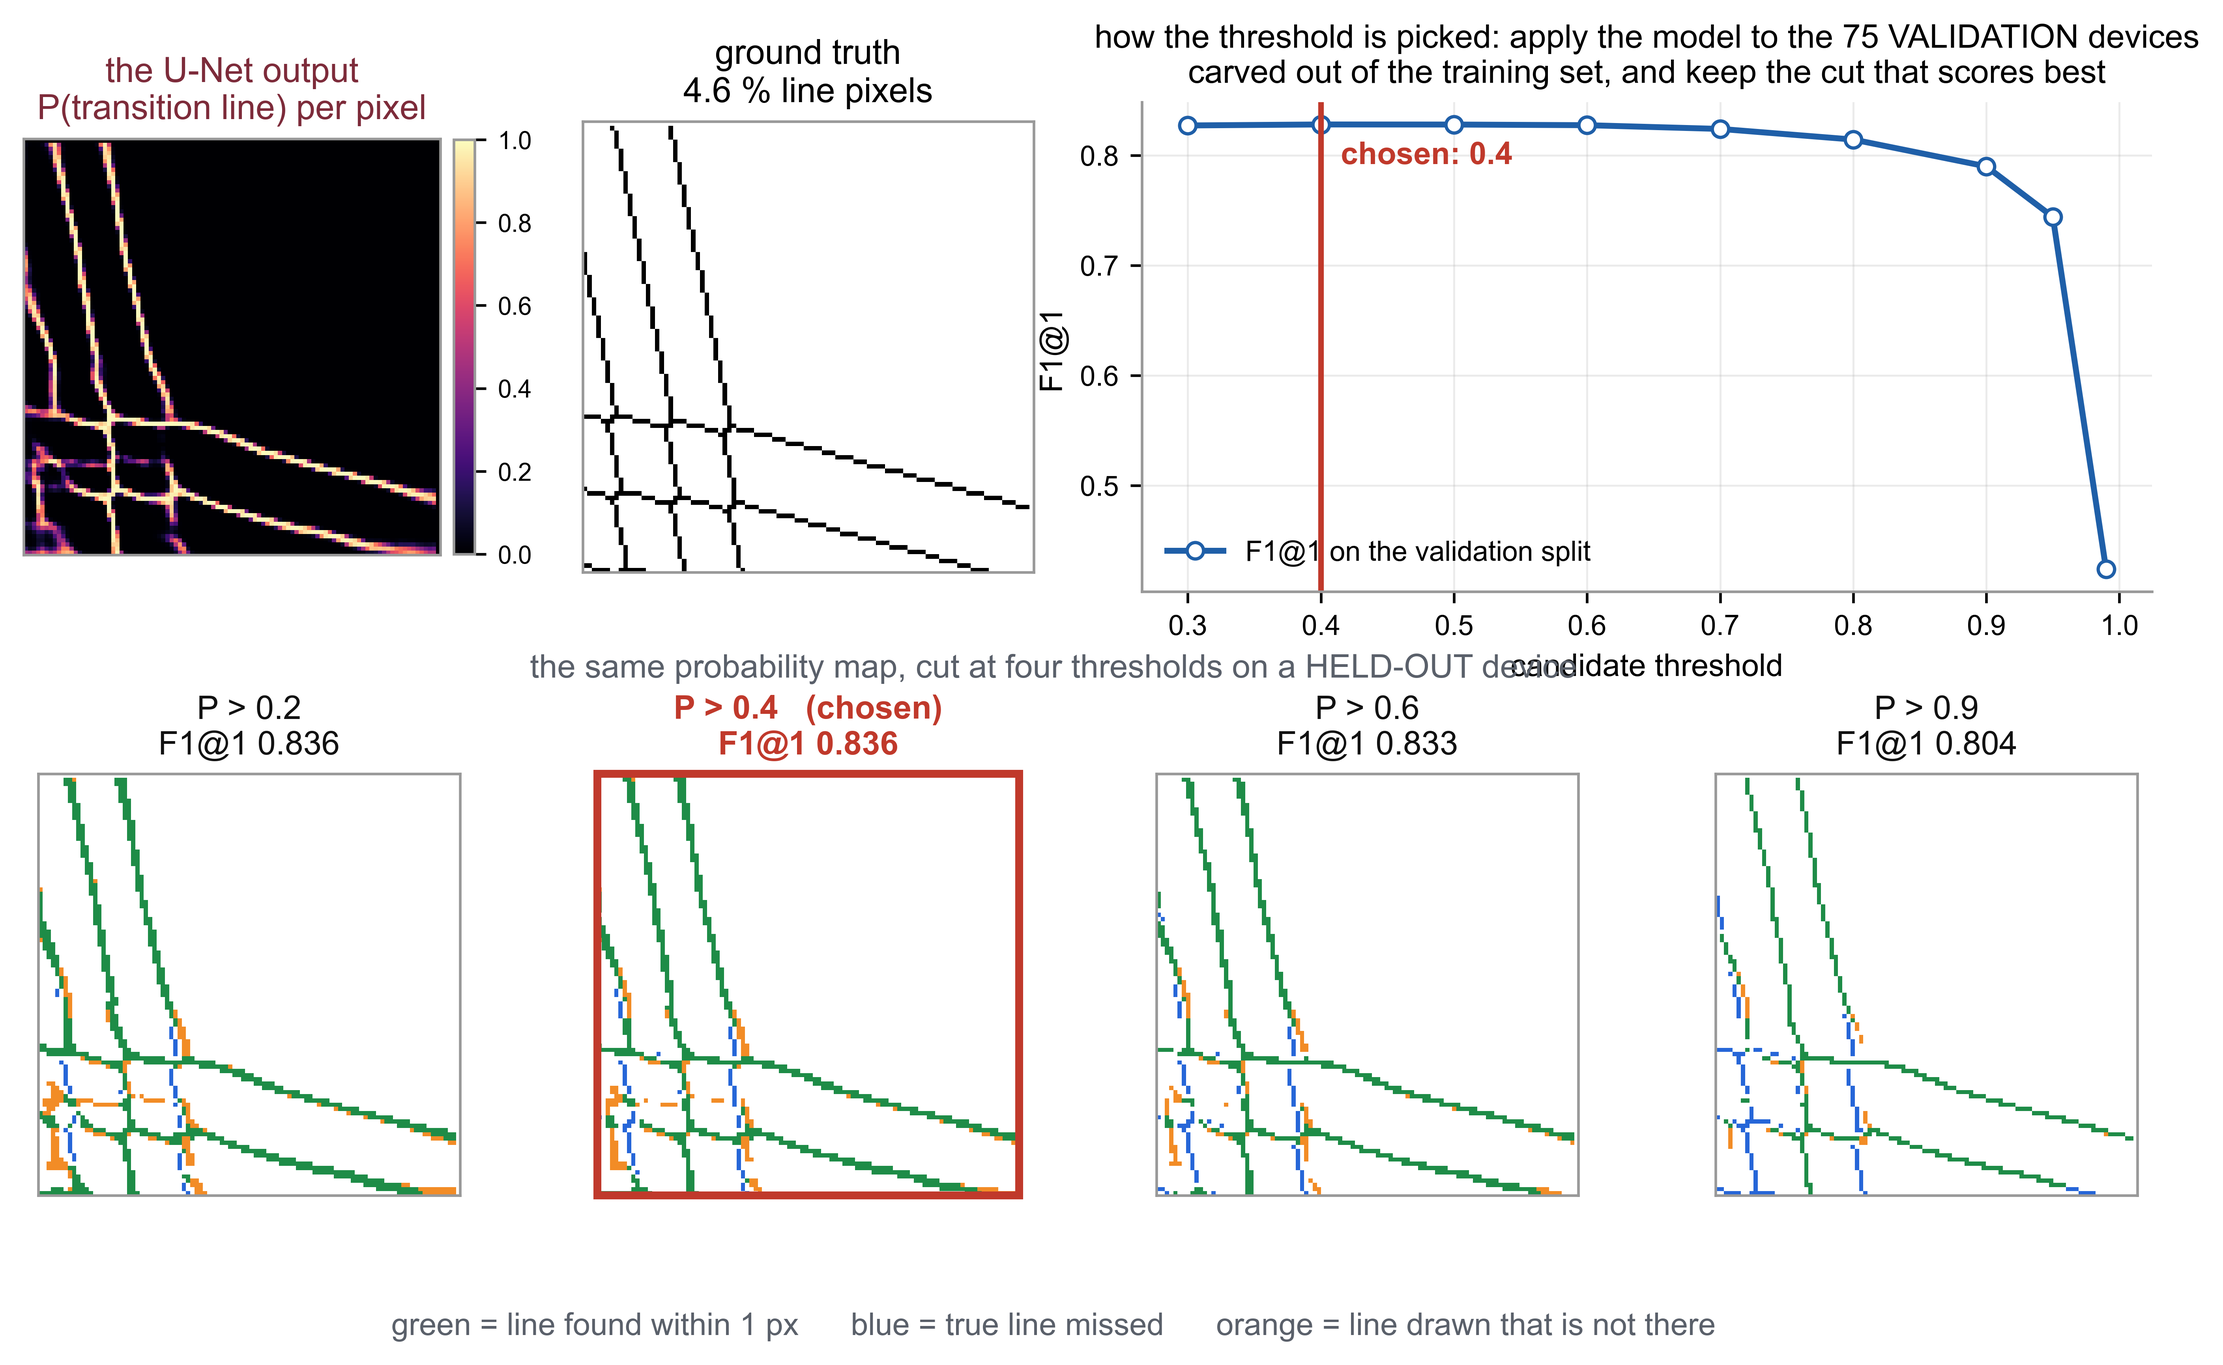
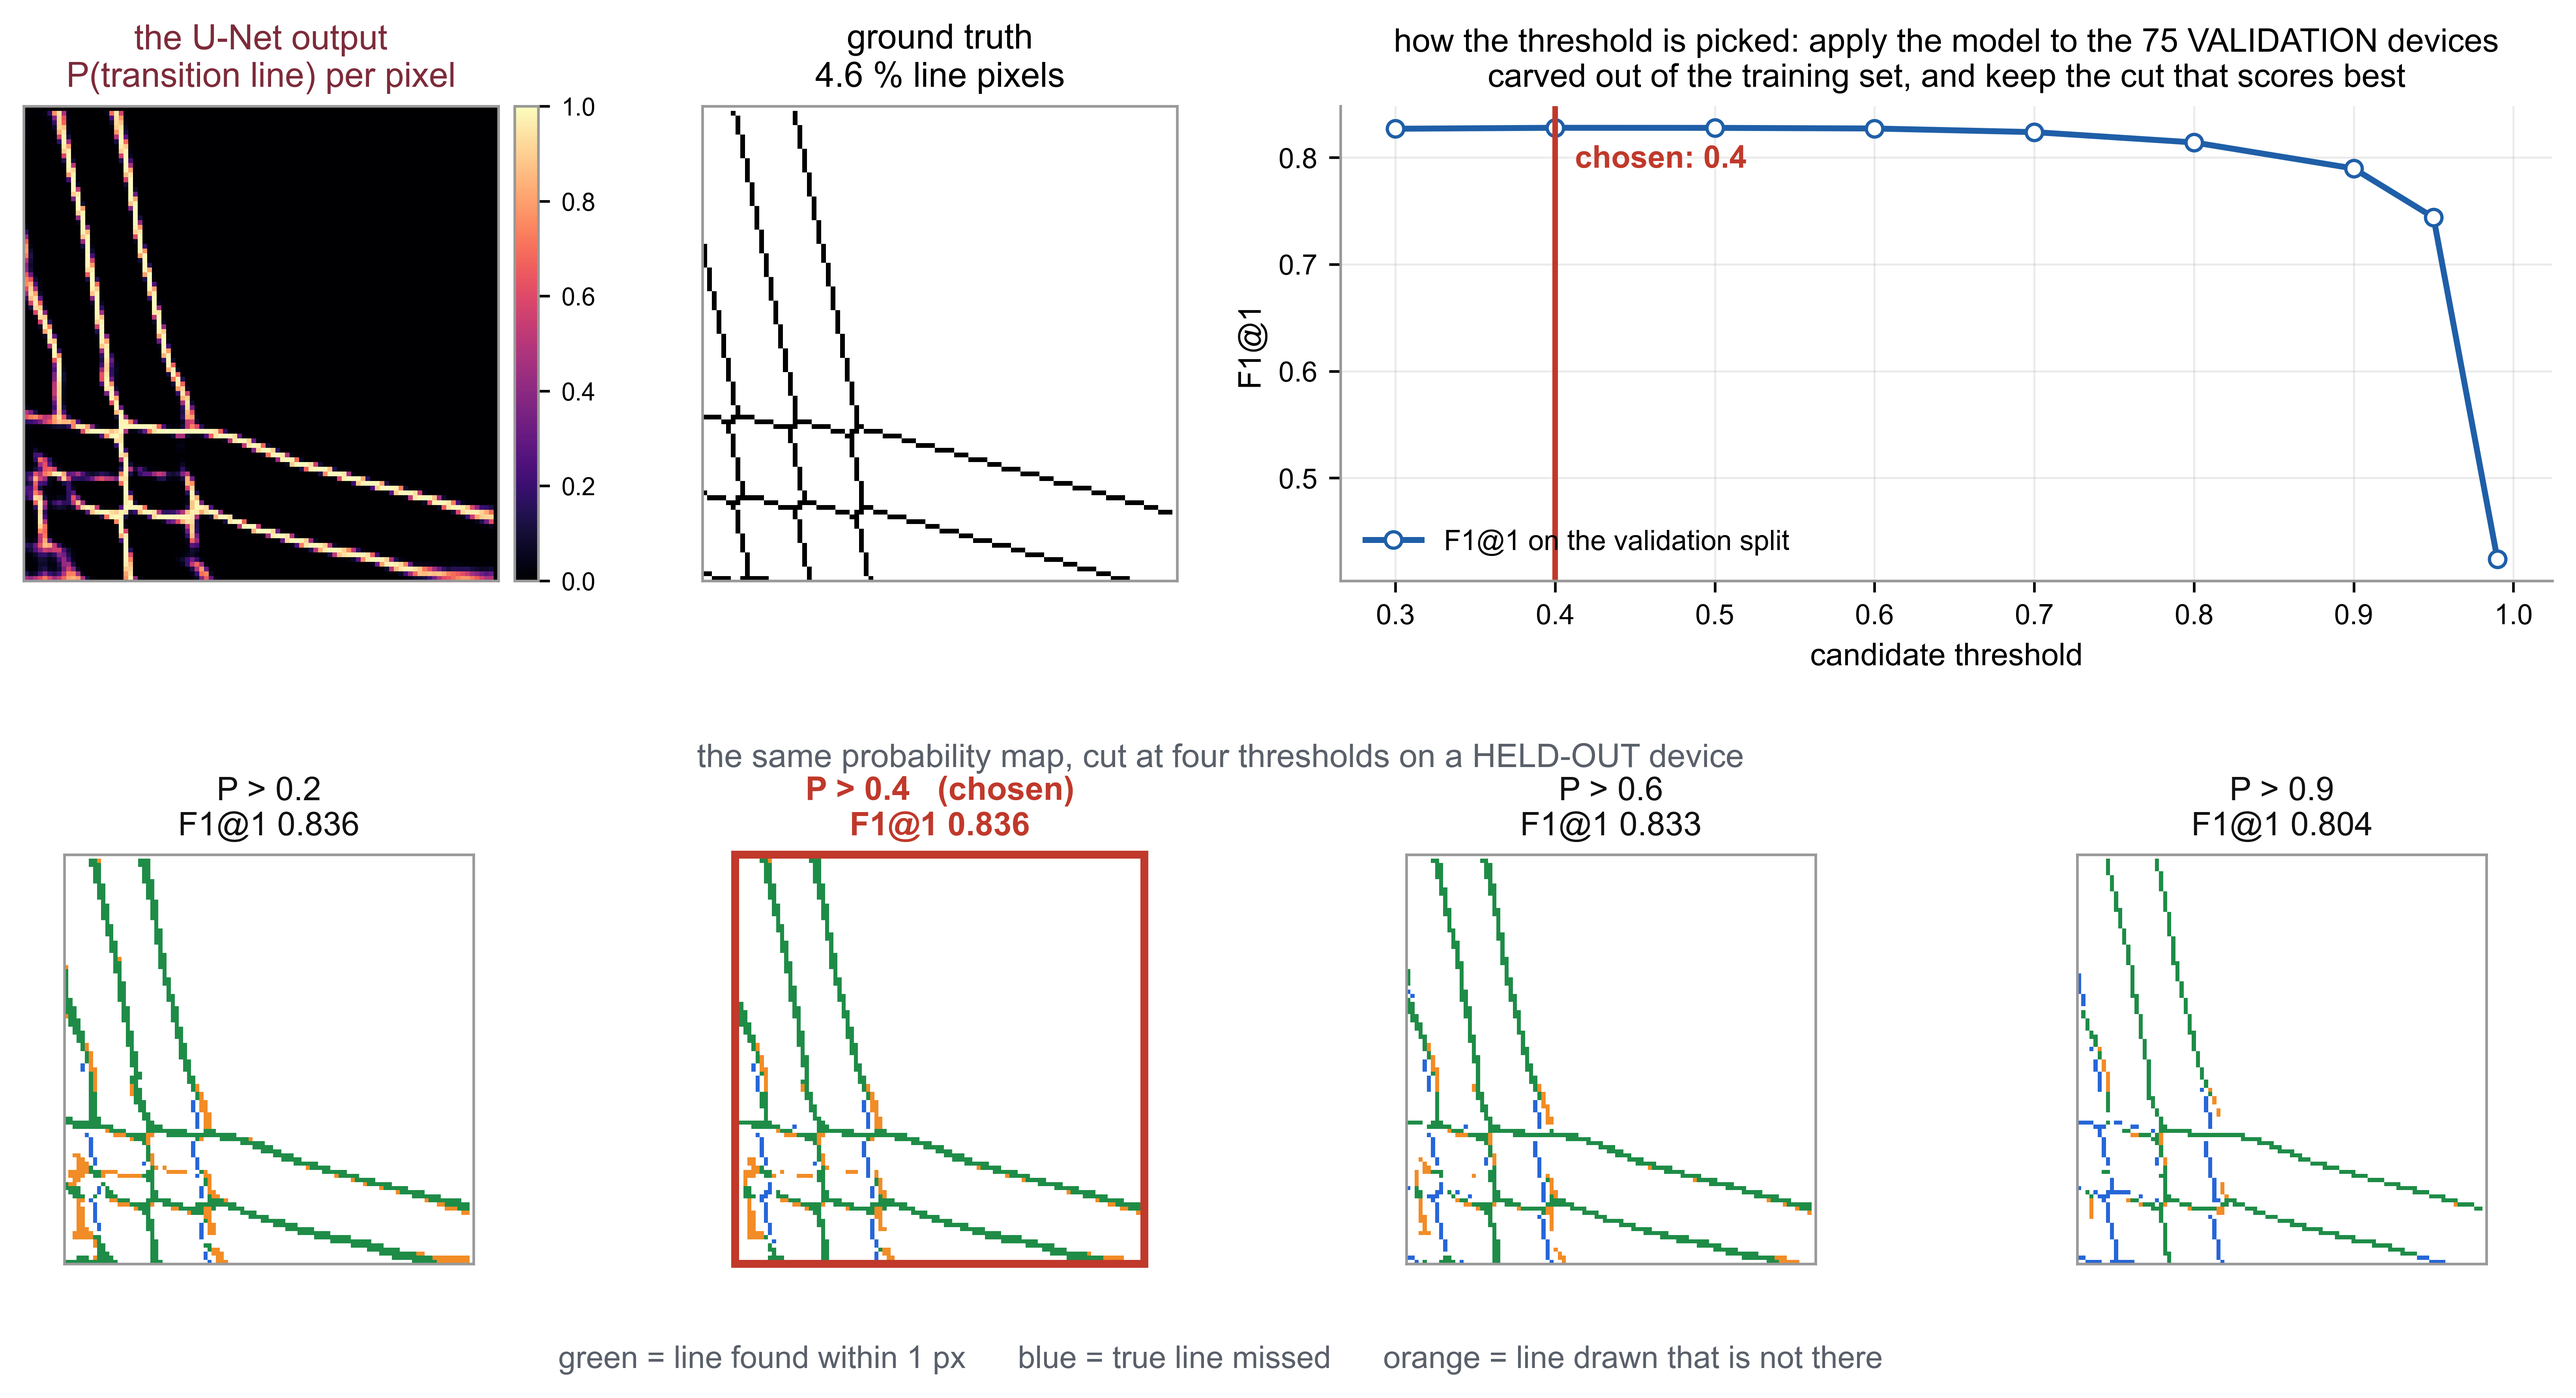
added some

diff --git a/paper_figures/make_figures.py b/paper_figures/make_figures.py
@@ -266,7 +266,8 @@ def fig_probability_to_lines(device_index=RESULT_DEVICE, ladder=LADDER):
     n = len(ladder)
     fig = plt.figure(figsize=(11.6, 6.0))
     gs = fig.add_gridspec(2, 4, height_ratios=[1.16, 1.0],
-                          hspace=0.40, wspace=0.24)
+                          hspace=0.62, wspace=0.24,
+                          left=0.055, right=0.985, top=0.90, bottom=0.085)
 
     def blank(ax):
         ax.set_xticks([]); ax.set_yticks([])
@@ -333,7 +334,7 @@ def fig_probability_to_lines(device_index=RESULT_DEVICE, ladder=LADDER):
             for sp in ax.spines.values():
                 sp.set_color("#c0392b"); sp.set_linewidth(2.4)
 
-    fig.text(0.5, 0.475, "the same probability map, cut at four thresholds "
+    fig.text(0.5, 0.435, "the same probability map, cut at four thresholds "
                          "on a HELD-OUT device", ha="center", fontsize=10,
              color=MUT)
     fig.text(0.5, 0.012,
@@ -341,7 +342,6 @@ def fig_probability_to_lines(device_index=RESULT_DEVICE, ladder=LADDER):
              "blue = true line missed      "
              "orange = line drawn that is not there",
              ha="center", fontsize=9.5, color=MUT)
-    fig.tight_layout(rect=(0, 0.03, 1, 1))
     save(fig, "fig_probability_to_lines")
 
 
